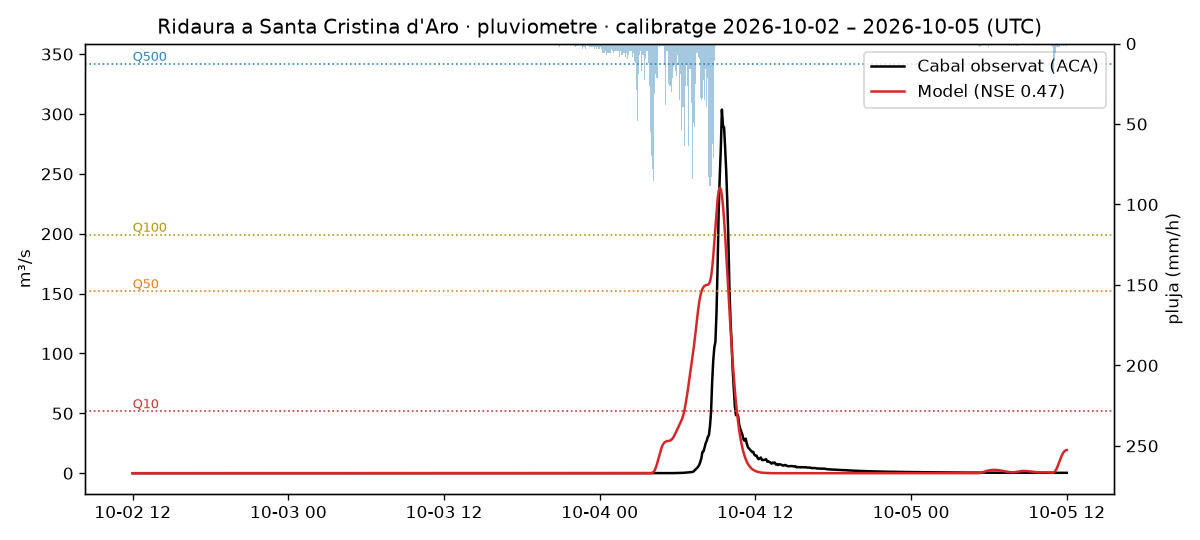
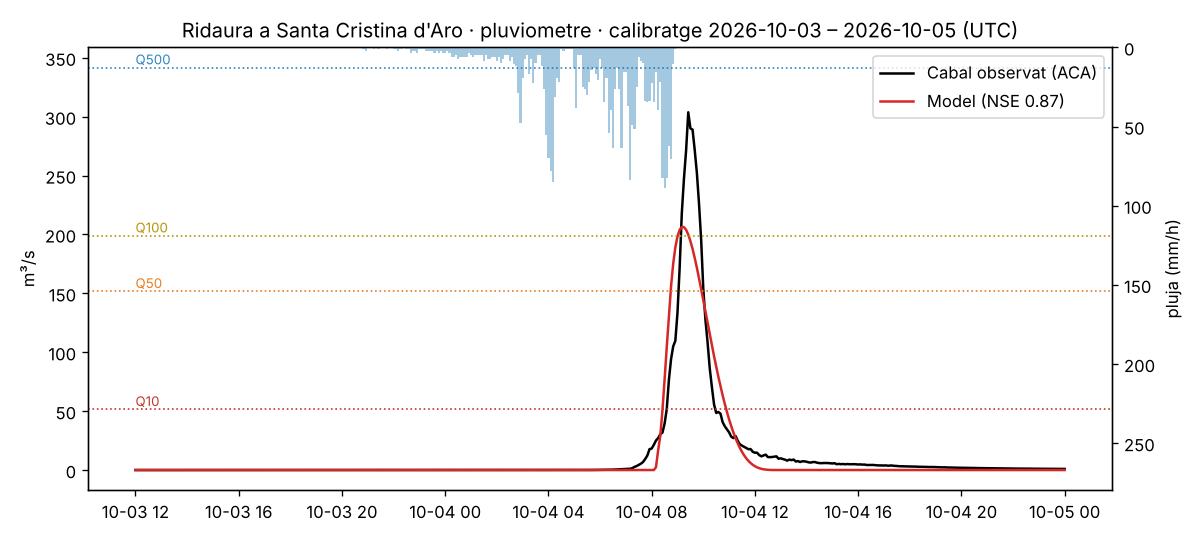
Model de cabal amb llindar de pluja i dipòsits no lineals (NSE 0,87 amb el pluviòmetre)
Claude-Session: https://claude.ai/code/session_01HKe43tMNBSenWtwvRTKVyX

Changed region(s): [[0.0308, 0.0296, 0.9867, 0.9778], [0.0, 0.4741, 0.0308, 0.5333]]

diff --git a/scripts/model_cabal.py b/scripts/model_cabal.py
@@ -2,12 +2,12 @@
 """Model pluja → cabal de la Ridaura a l'aforador (capa 2 del pla), calibrat amb un episodi observat.
 
 Model agregat a pas de 5 minuts, pensat per a crescudes ràpides de conques petites:
-  - pèrdues amb el llindar d'escorrentia P0 (mètode SCS, el que fa servir l'ACA):
-        E acumulada = (P - P0)² / (P + 4·P0)  si P > P0
-  - la pluja neta es propaga amb una cascada de Nash (n dipòsits lineals de constant k),
+  - pèrdues amb llindar: la conca reté tota la pluja fins a Ia mm acumulats; després escorre una fracció C
+    (el 3-4/10/2026 la Ridaura no va respondre fins a ~150 mm: sòls secs després de l'estiu),
+  - la pluja neta es propaga amb n dipòsits no lineals: Q = (S/K)^(1/m),
   - cabal de base constant (el de l'inici de l'episodi).
-Paràmetres calibrats: P0 (mm), k (h) i n (1–5). El factor del radar f es fixa (per defecte 1: el 3-4/10/2026
-el radar va donar 195 mm a la conca i el pluviòmetre de l'ACA 198 mm); amb un sol episodi P0 i f no es poden separar.
+Paràmetres calibrats: Ia (mm), C, K, m. n es prova d'1 a 2. La pluja es pot prendre del radar
+(mitjana de la conca) o del pluviòmetre de l'ACA a l'aforador (un sol punt).
 
 Ús:  python3 scripts/model_cabal.py --config config/ridaura.json --des 2026-10-03T00:00 --fins 2026-10-05T00:00
      (llegeix Supabase; amb --csv llegeix un CSV fet amb --exporta)
@@ -21,18 +21,19 @@ from scipy.optimize import minimize
 DT = 5          # minuts
 
 
-def simula(pluja, area_km2, q_base, p0, k_h, f=1.0, n=3):
+def simula(pluja, area_km2, q_base, ia, c, k, m, n=2):
     """Cabal (m³/s) a cada pas a partir de la pluja mitjana de la conca (mm per pas)."""
-    p = np.cumsum(pluja * f)
-    e = np.where(p > p0, (p - p0) ** 2 / (p + 4 * p0), 0.0)
-    neta = np.diff(e, prepend=0.0)                                   # mm per pas
+    p = np.cumsum(pluja)
+    neta = np.diff(c * np.maximum(p - ia, 0.0), prepend=0.0)          # mm per pas
     entrada = neta * area_km2 * 1000 / (DT * 60)                     # m³/s
-    a = DT / 60 / max(k_h, 1e-3)                                     # fracció que surt de cada dipòsit per pas
+    sub, h = 3, DT * 60 / 3
     s = np.zeros(n); q = np.empty_like(entrada)
     for i, x in enumerate(entrada):
         flux = x
         for j in range(n):
-            s[j] += flux; flux = s[j] * a / (1 + a); s[j] -= flux   # dipòsit lineal (implícit, estable)
+            for _ in range(sub):                                     # dS/dt = entrada - (S/K)^(1/m)
+                s[j] = max(s[j] + (flux - (s[j] / k) ** (1 / m)) * h, 0.0)
+            flux = (s[j] / k) ** (1 / m)
         q[i] = flux
     return q + q_base
 
@@ -42,25 +43,23 @@ def nse(obs, sim):
     return 1 - np.sum((obs[ok] - sim[ok]) ** 2) / np.sum((obs[ok] - obs[ok].mean()) ** 2)
 
 
-def calibra(pluja, obs, area_km2, f=1.0):
+def calibra(pluja, obs, area_km2):
     q_base = max(float(np.nanmin(obs[: 12 * 6])), 0.0) if np.isfinite(obs[: 12 * 6]).any() else 0.0
     def cost(x, n):
-        p0, k = x
-        if p0 < 1 or k < 0.05:
+        ia, c, k, m = x
+        if ia < 0 or not 0 < c <= 1 or k <= 0 or not 0.15 < m < 1.5:
             return 1e9
-        sim = simula(pluja, area_km2, q_base, p0, k, f, n)
-        ok = ~np.isnan(obs)
-        # error quadràtic + penalització del pic (el que importa per a l'avís)
-        return np.mean((obs[ok] - sim[ok]) ** 2) + 0.5 * (np.nanmax(obs) - sim.max()) ** 2 / 10
+        return -nse(obs, simula(pluja, area_km2, q_base, ia, c, k, m, n))
     millor, n_millor = None, None
-    for n in range(1, 6):
-        for p0 in (10, 40, 80):
-            for k in (0.2, 0.6, 1.5):
-                r = minimize(cost, [p0, k], args=(n,), method="Nelder-Mead", options={"maxiter": 2000, "xatol": 1e-3, "fatol": 1e-3})
-                if millor is None or r.fun < millor.fun:
-                    millor, n_millor = r, n
-    p0, k = (float(v) for v in millor.x)
-    return {"P0_mm": round(p0, 2), "k_h": round(k, 3), "n": n_millor, "factor_radar": f, "q_base_m3s": round(q_base, 3)}
+    for n in (1, 2):
+        for ia in (40, 90, 140):
+            for k in (1e4, 3e5):
+                for m in (0.3, 0.6, 1.0):
+                    r = minimize(cost, [ia, 0.6, k, m], args=(n,), method="Nelder-Mead", options={"maxiter": 600})
+                    if millor is None or r.fun < millor.fun:
+                        millor, n_millor = r, n
+    ia, c, k, m = (float(v) for v in millor.x)
+    return {"Ia_mm": round(ia, 1), "C": round(c, 3), "K": round(k, 1), "m": round(m, 3), "n": n_millor, "q_base_m3s": round(q_base, 3)}
 
 
 def llegeix_supabase(cfg, ini, fi, font="radar"):
@@ -98,7 +97,6 @@ def main():
     ap.add_argument("--des", required=True)
     ap.add_argument("--fins", required=True)
     ap.add_argument("--csv")
-    ap.add_argument("--factor-radar", type=float, default=1.0)
     ap.add_argument("--font", choices=["radar", "pluviometre"], default="radar")
     ap.add_argument("--exporta", help="només desa un CSV amb temps, pluja radar, pluja pluviòmetre i cabal, i acaba")
     a = ap.parse_args()
@@ -116,15 +114,15 @@ def main():
     pl, qo = llegeix_csv(a.csv, a.font) if a.csv else llegeix_supabase(cfg, ini, fi, a.font)
     pluja = np.array([pl.get(t, 0.0) for t in temps])
     obs = np.array([qo.get(t, np.nan) for t in temps])
-    print(f"{len(pl)} passos de radar ({pluja.sum():.1f} mm), {np.isfinite(obs).sum()} de cabal (pic {np.nanmax(obs):.1f} m³/s)")
+    print(f"{len(pl)} passos de pluja ({pluja.sum():.1f} mm), {np.isfinite(obs).sum()} de cabal (pic {np.nanmax(obs):.1f} m³/s)")
     area = cfg["cabals_T"]["aforador"]["area_km2"]
-    par = calibra(pluja, obs, area, a.factor_radar)
-    sim = simula(pluja, area, par["q_base_m3s"], par["P0_mm"], par["k_h"], par["factor_radar"], par["n"])
+    par = calibra(pluja, obs, area)
+    sim = simula(pluja, area, par["q_base_m3s"], par["Ia_mm"], par["C"], par["K"], par["m"], par["n"])
     ip_o, ip_s = int(np.nanargmax(obs)), int(np.argmax(sim))
     par.update({"font_pluja": a.font, "punt": "aforador", "area_km2": area, "episodi": [a.des, a.fins], "NSE": round(float(nse(obs, sim)), 3),
                 "pic_obs_m3s": round(float(obs[ip_o]), 1), "pic_sim_m3s": round(float(sim[ip_s]), 1),
                 "hora_pic_obs": temps[ip_o].isoformat(), "hora_pic_sim": temps[ip_s].isoformat(),
-                "pluja_radar_mm": round(float(pluja.sum()), 1)})
+                "pluja_mm": round(float(pluja.sum()), 1)})
     print(json.dumps(par, indent=2, ensure_ascii=False))
     Path(f"config/{cfg['conca']}_model_{a.font}.json").write_text(json.dumps(par, indent=2, ensure_ascii=False) + "\n")
     try:
@@ -135,7 +133,7 @@ def main():
         for nom, c in (("Q10", "#c0392b"), ("Q50", "#e67e22"), ("Q100", "#b7950b"), ("Q500", "#2e86c1")):
             ax.axhline(cfg["cabals_T"]["aforador"][nom], color=c, ls=":", lw=1); ax.text(temps[0], cfg["cabals_T"]["aforador"][nom], nom, color=c, fontsize=8, va="bottom")
         ax.set_ylabel("m³/s"); ax.legend(loc="upper right")
-        ax2 = ax.twinx(); ax2.bar(temps, pluja * par["factor_radar"] * 12, width=DT / 1440, color="tab:blue", alpha=0.4)
+        ax2 = ax.twinx(); ax2.bar(temps, pluja * 12, width=DT / 1440, color="tab:blue", alpha=0.4)
         ax2.set_ylim(ax2.get_ylim()[1] * 3, 0); ax2.set_ylabel("pluja (mm/h)")
         ax.set_title(f"Ridaura a Santa Cristina d'Aro · {a.font} · calibratge {a.des[:10]} – {a.fins[:10]} (UTC)")
         fig.tight_layout(); fig.savefig(f"data/{cfg['conca']}/calibratge_{a.font}.png", dpi=120)

diff --git a/README.md b/README.md
@@ -18,8 +18,10 @@ L'episodi del 3-4/10/2026 va fer passar el riu de 30 a 300 m³/s en 2 h, de mane
 1. ✅ Conca i xarxa de drenatge (MDE Copernicus 30 m; pendent passar a l'MDT de 5 m de l'ICGC)
 2. Dades: radar OPERA, nowcast, models AROME/WRF/ICON, aforador i pluviòmetre de l'ACA
 3. Capa 1: perill per pluja acumulada a la conca (1/3/6/24 h) comparada amb llindars
-4. Capa 2: model de cabal GR4J horari, propagació i correcció amb l'aforador
-5. Visor web (GitHub Pages)
+4. Capa 2: model de cabal (`scripts/model_cabal.py`): llindar de pluja + dipòsits no lineals, calibrat amb el 3-4/10/2026
+   (amb el pluviòmetre NSE 0,87, pic 206 de 304 m³/s; amb el radar NSE 0,63, perquè OPERA infravalora els nuclis convectius).
+   Pendent: fer-lo córrer cada 10 min, nowcast/AROME, propagació a la desembocadura i correcció amb l'aforador.
+5. ✅ Visor web (GitHub Pages), amb el període de retorn equivalent al cabal (cabals oficials de l'ACA per tram)
 6. Validació amb episodis històrics
 
 ## Funcionament
@@ -33,7 +35,9 @@ Secret del repo (Settings → Secrets and variables → Actions): `SUPABASE_SECR
 ## Estructura
 
 - `index.html`: visor
-- `config/ridaura.json`: aforador, sensors i llindars de la conca
+- `config/ridaura.json`: aforador, sensors, llindars i cabals de càlcul de l'ACA (Q10–Q500) de la conca
+- `config/ridaura_model_*.json`, `data/ridaura/calibratge_*.png`, `data/ridaura/episodi_*.csv`: calibratge del model
+- `scripts/radar_conca.py`: pluja del radar OPERA sobre la conca (temps real o, amb `--des/--fins`, de l'arxiu des de 2011)
 - `scripts/aca_aforador.py`: recull el nivell, el cabal i la pluja de l'aforador de l'ACA
 - `data/ridaura/conca.geojson`: conca a la desembocadura, conca a l'aforador i xarxa de drenatge
 - `scripts/retalla_mde.py`, `scripts/delimita_conca.py`, `scripts/dibuixa_conca.py`: delimitació de la conca
